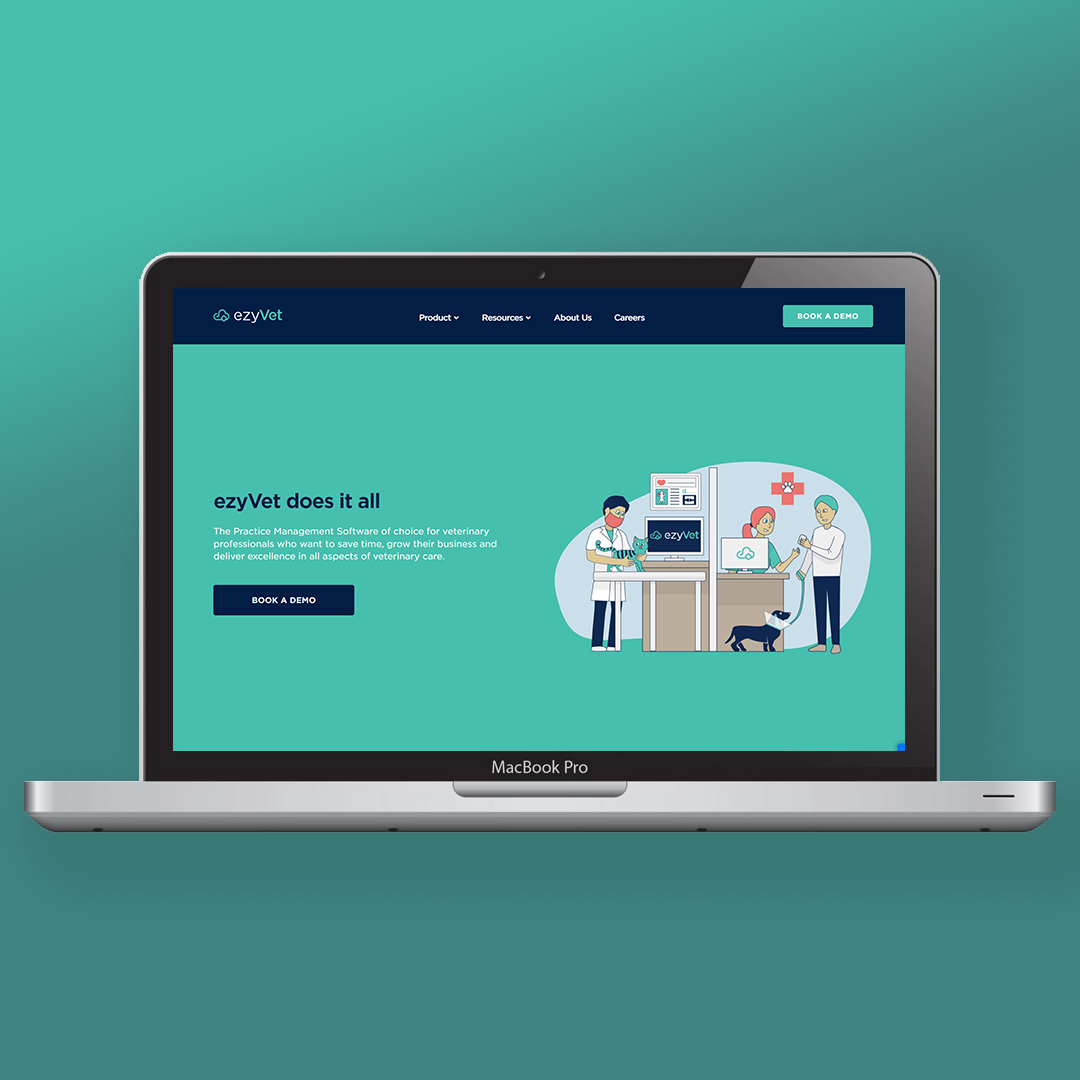
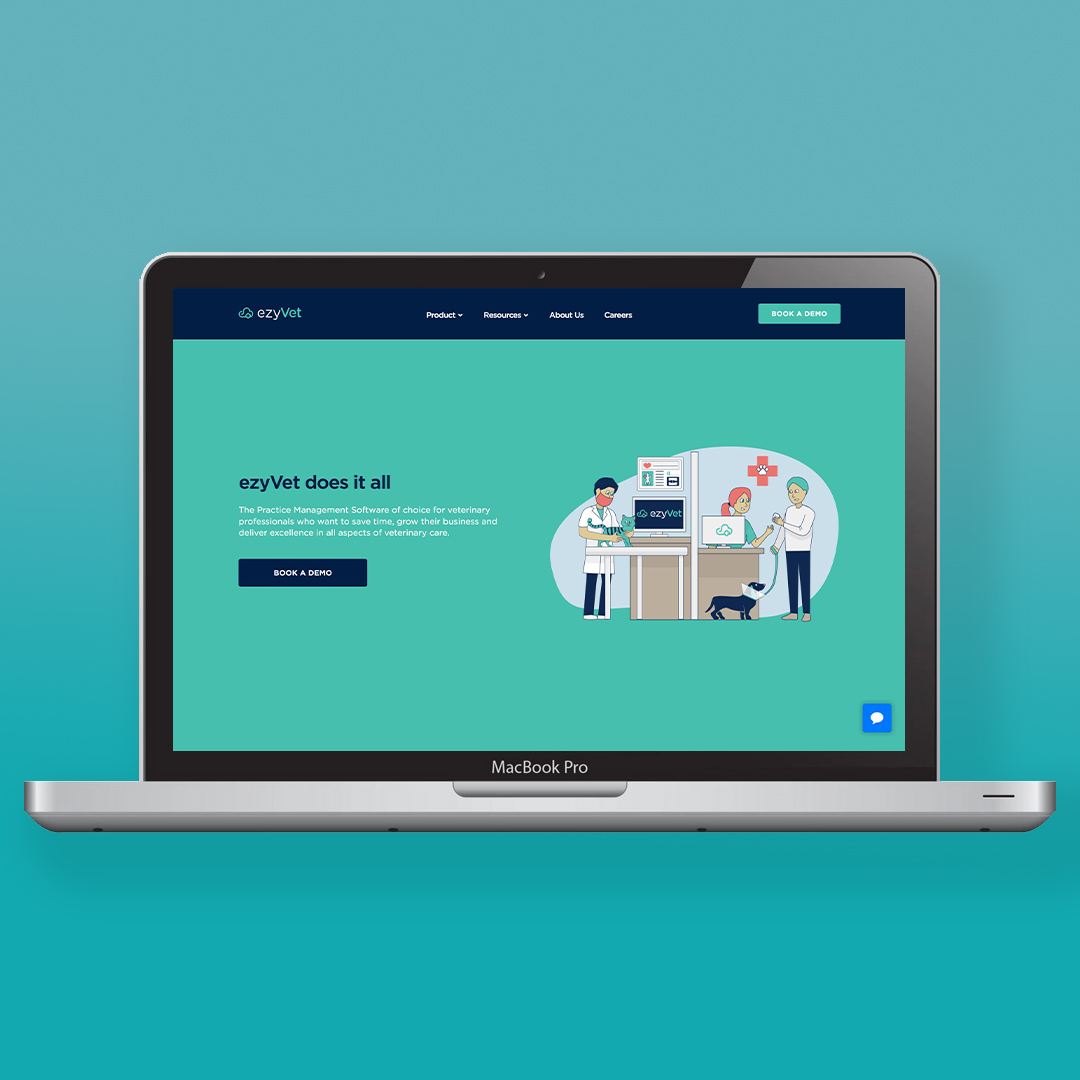
updates

diff --git a/index.html b/index.html
@@ -12,13 +12,6 @@
 </head>
 
 <body>
-    <!--     <div id="loader-wrapper">
-  <div id="loader"></div>
-
-  <div class="loader-section section-left"></div>
-  <div class="loader-section section-right"></div>
-
-</div> -->
     <header>
         <h1 class="logo">Hasmita Patel</h1>
         <ul class="main-nav">
@@ -28,46 +21,46 @@
     </header>
     <div class="container-fluid ">
         <div class="grid-container ">
-          <a class="image-link scrollreveal " href="marthas.html">
+          <a class="image-link scrollreveal" href="ezyvet.html">
+              <div class="hover-state">
+                  <div class="square " style="background-image: url(images/ezyvet-laptop.jpg); "></div>
+                  <div class="overlay">
+                      <div class="text">
+                          <h2>ezyVet</h2>
+                          <h4>Web Development</h4>
+                      </div>
+                  </div>
+              </div>
+          </a>
+          <a class="image-link scrollreveal" href="marthas.html">
               <div class="hover-state">
                   <div class="square " style="background-image: url(images/thumb-14.jpg); "></div>
                   <div class="overlay">
                       <div class="text">
                           <h2>Martha's Fabrics</h2>
-                          <h4>UX/UI Prototype</h4>
+                          <h4>Web Development</h4>
                       </div>
                   </div>
               </div>
           </a>
-          <a class="image-link scrollreveal " href="marthas-edm.html">
-              <div class="hover-state">
-                  <div class="square " style="background-image: url(images/thumb-16.jpg); "></div>
-                  <div class="overlay">
-                      <div class="text">
-                          <h2>Martha's Fabrics</h2>
-                          <h4>EDM Design</h4>
-                      </div>
-                  </div>
-              </div>
-          </a>
-          <a class="image-link scrollreveal " href="eps.html">
-              <div class="hover-state">
-                  <div class="square " style="background-image: url(images/thumb-15.jpg); "></div>
-                  <div class="overlay">
-                      <div class="text">
-                          <h2>Endeavour Property Services</h2>
-                          <h4>UX/UI & Development</h4>
-                      </div>
-                  </div>
-              </div>
-          </a>
-            <a class="image-link scrollreveal " href="bubble-weekend.html">
+            <a class="image-link scrollreveal" href="bubble-weekend.html">
                 <div class="hover-state">
                     <div class="square " style="background-image: url(images/thumb-13.jpg); "></div>
                     <div class="overlay">
                         <div class="text">
                             <h2>MOTAT Bubble Weekend</h2>
                             <h4>HTML5 Banner Ads</h4>
+                        </div>
+                    </div>
+                </div>
+            </a>
+            <a class="image-link scrollreveal " href="eps.html">
+                <div class="hover-state">
+                    <div class="square " style="background-image: url(images/thumb-15.jpg); "></div>
+                    <div class="overlay">
+                        <div class="text">
+                            <h2>Endeavour Property Services</h2>
+                            <h4>Web Development</h4>
                         </div>
                     </div>
                 </div>
@@ -105,7 +98,6 @@
                     </div>
                 </div>
             </a>
-
             <a class="image-link scrollreveal " href="peninsula.html">
                 <div class="hover-state">
                     <div class="square " style="background-image: url(images/thumb-4.jpg); "></div>
@@ -172,7 +164,17 @@
                     </div>
                 </div>
             </a>
-
+            <!-- <a class="image-link scrollreveal " href="illustration.html" target="_blank">
+              <div class="hover-state">
+                  <div class="square " style="background-image: url(images/thumb-12.jpg); "></div>
+                  <div class="overlay">
+                      <div class="text">
+                          <h2>Illustration</h2>
+                          <h4>A collection of art</h4>
+                      </div>
+                  </div>
+              </div>
+          </a> -->
               <a class="image-link scrollreveal " href="milktruck.html" target="_blank">
                 <div class="hover-state">
                     <div class="square " style="background-image: url(images/thumb-9.jpg); "></div>

diff --git a/marthas-ux.html b/marthas-ux.html
@@ -24,16 +24,22 @@
   <div class="container-fluid">
     <div class="project-title scrollreveal">
       <h1>Martha's Furnishing Fabrics</h1>
-      <p>Martha’s Furnishing Fabrics wanted a redesign of their website that aligned well with their brand. I received the Adobe XD file from the designer, which I used as a reference to build a functioning front-end prototype. After the client’s approval, I handed my code to a Shopify developer, who integrated my styling into a Shopify template. All pages are responsive and were built using HTML, Sass/CSS, jQuery, Javascript and Shopify.</p>
-      <p>To view my front-end code before the merging with Shopify, please visit:<br><a href="https://hasmitapatel.github.io/marthas-frontend/" target="_blank">https://hasmitapatel.github.io/marthas-frontend/</a></p>
-      <p>To view the live website click <a href="https://marthas.co.nz/" target="_blank">here</a>.</p>
     </div>
   </div>
-
+  <div class="container">
+    <h3>Project outline</h3>
+    <p>All pages are responsive and were built using HTML5, Sass/CSS, Bootstrap, jQuery, Javascript and Shopify CMS.</p>
+    <h3>Links</h3>
+    <ul>
+      <li><a href="https://xd.adobe.com/view/d2bb100c-57d9-41b3-85e9-e5a9e1b9035e-87e8/" target="_blank">Desktop prototype</a></li>
+      <li><a href="https://xd.adobe.com/view/dd087878-d64f-427f-92d0-988720168bcc-885b/" target="_blank">Mobile prototype</a></li>
+      <li><a href="https://marthas.co.nz/" target="_blank">Live Website</a></li>
+    </ul>
+  </div>
   <div class="container-fluid">
-    <img class="image" src="images/marthas-1.jpg" alt="Marthas Homepage">
-    <img class="image scrollreveal" src="images/marthas-2.jpg" alt="Marthas Product Page">
-    <img class="image scrollreveal" src="images/marthas-3.jpg" alt="Individual product page">
+    <img class="image" src="images/marthas-1.jpg" alt="">
+    <img class="image scrollreveal" src="images/marthas-2.jpg" alt="">
+    <img class="image scrollreveal" src="images/marthas-3.jpg" alt="">
   </div>
   <script src="https://ajax.googleapis.com/ajax/libs/jquery/1.12.4/jquery.min.js "></script>
   <script src="js/scrollreveal.min.js "></script>

diff --git a/ezyvet.html b/ezyvet.html
@@ -22,20 +22,14 @@
     </ul>
   </header>
   <div class="container-fluid">
-
-    <div class="project-title scrollreveal">
-      <h1>Spring/Summer Lookbook Campaign</h1>
-      <p>I helped develop and design the Spring & Summer lookbook page template which was used for 18 different lookbooks for both men's and women's fashion. The website design uses the parallax effect to change the colour of the background images as
-        you scroll down the page. All pages are responsive and were built using HTML5, PureCSS framework, Sass/CSS and PHP.</p>
-      <p>To view the live website click <a href="https://www.farmers.co.nz/cms/lookbook-zest" target="_blank">here</a>.</p>
+    <div class="project-title">
+      <h1>ezyVet Website Redesign</h1>
+      <p>I was responsible for building the front-end of the full website, including all pages and interactive elements such as filters for the blog, integrations and testimonials. I integrated Craft with my front-end code to create the CMS with the
+        help of a back-end developer. I continuously liaised with the marketing team throughout the project to make iterations until they were satisfied. All pages are responsive and were built using HTML, Sass/CSS, Bootstrap, jQuery, Javascript & Craft CMS.</p>
+      <p>To view the live website click <a href="https://www.ezyvet.com/" target="_blank">here</a>.</p>
     </div>
-    <img class="image scrollreveal" src="images/zest2.jpg" alt="Zest Lookbook for Desktop">
-    <img class="image scrollreveal" src="images/zest3.jpg" alt="Zest Lookbook on mobile">
-    <img class="image scrollreveal" src="images/laidlaw.jpg" alt="Laidlaw Lookbook">
-
+    <img class="image" src="images/ezyvet-1.jpg" alt="ezyvet Homepage">
   </div>
-
-
   <script src="https://ajax.googleapis.com/ajax/libs/jquery/1.12.4/jquery.min.js "></script>
   <script src="js/scrollreveal.min.js "></script>
   <script src="js/script.js "></script>

diff --git a/engineroom.html b/engineroom.html
@@ -24,10 +24,10 @@
             <h1>The Engine Room website</h1>
             <p>I helped design and develop the website for the restaurant, The Engine Room. The images below showcase more of the interactions like the slide out forms and menu which can be seen on their live website. The website design is inspired by their current branding from their cookbook &amp; the chalkboard menu, handwritten by the chef. I developed the website using HTML, CSS/Sass, Javascript &amp; JQuery.</p><p>To view the live website click <a href="https://engineroom.net.nz/" target="_blank">here</a>.</p>
         </div>
-        <img class="image scrollreveal" src="images/er4.jpg" alt="">
-        <img class="image scrollreveal" src="images/er3.jpg" alt="">
-        <img class="image scrollreveal" src="images/er2.jpg" alt="">
-        <img class="image scrollreveal" src="images/er5.jpg" alt="">
+        <img class="image scrollreveal" src="images/er4.jpg" alt="Landing Page">
+        <img class="image scrollreveal" src="images/er3.jpg" alt="Website Menu">
+        <img class="image scrollreveal" src="images/er2.jpg" alt="Scrollable slide out form">
+        <img class="image scrollreveal" src="images/er5.jpg" alt="Journal Page">
 
                     </div>
         <script src="https://ajax.googleapis.com/ajax/libs/jquery/1.12.4/jquery.min.js "></script>

diff --git a/christmas-launch.html b/christmas-launch.html
@@ -24,9 +24,9 @@
             <h1>Christmas 2018 Online Launch</h1>
              <p>I worked alongside the Lead Digital Designer to develop the webpages for the Farmers Christmas 2018 campaign. The images below show the design for the landing page and the 4 different themes using the same template. The website was built using a combination of HTML5, PureCSS framework, Sass and PHP. </p><p>To view the live website click <a href="https://www.farmers.co.nz/cms/christmas-shop?mmega" target="_blank">here</a>.</p>
        </div>
-        <img class="image scrollreveal" src="images/xmas1.jpg" alt="">
-        <img class="image scrollreveal" src="images/xmas3.jpg" alt="">
-        <img class="image scrollreveal" src="images/xmas2.jpg" alt="">
+        <img class="image scrollreveal" src="images/xmas1.jpg" alt="Farmers Christmas Campaign landing page">
+        <img class="image scrollreveal" src="images/xmas3.jpg" alt="Farmers Christmas Campaign theme 1 and 2">
+        <img class="image scrollreveal" src="images/xmas2.jpg" alt="Farmers Christmas Campaign theme 3 and 4">
     </div>
     <script src="https://ajax.googleapis.com/ajax/libs/jquery/1.12.4/jquery.min.js "></script>
     <script src="js/scrollreveal.min.js "></script>

diff --git a/eps.html b/eps.html
@@ -22,10 +22,10 @@
     <div class="container-fluid">
       <div class="project-title">
         <h1>Endeavour Property Services Website Upgrade</h1>
-        <p>All pages are responsive and were built using HTML5, Bootstrap framework, Sass/CSS, jQuery & Javascript.</p><p>To view the live website click <a href="https://www.epservices.co.nz/" target="_blank">here</a>.</p>
+        <p>All pages are responsive and were built using HTML, Sass/CSS, Bootstrap, jQuery & Javascript.</p><p>To view the live website click <a href="https://www.epservices.co.nz/" target="_blank">here</a>.</p>
       </div>
-      <img class="image" src="images/eps-1.jpg" alt="">
-      <img class="image scrollreveal" src="images/eps-2.jpg" alt="">
+      <img class="image" src="images/eps-1.jpg" alt="EPS Landing Page">
+      <img class="image scrollreveal" src="images/eps-2.jpg" alt="EPS Mobile Menu">
     </div>
     <script src="https://ajax.googleapis.com/ajax/libs/jquery/1.12.4/jquery.min.js "></script>
     <script src="js/scrollreveal.min.js "></script>
